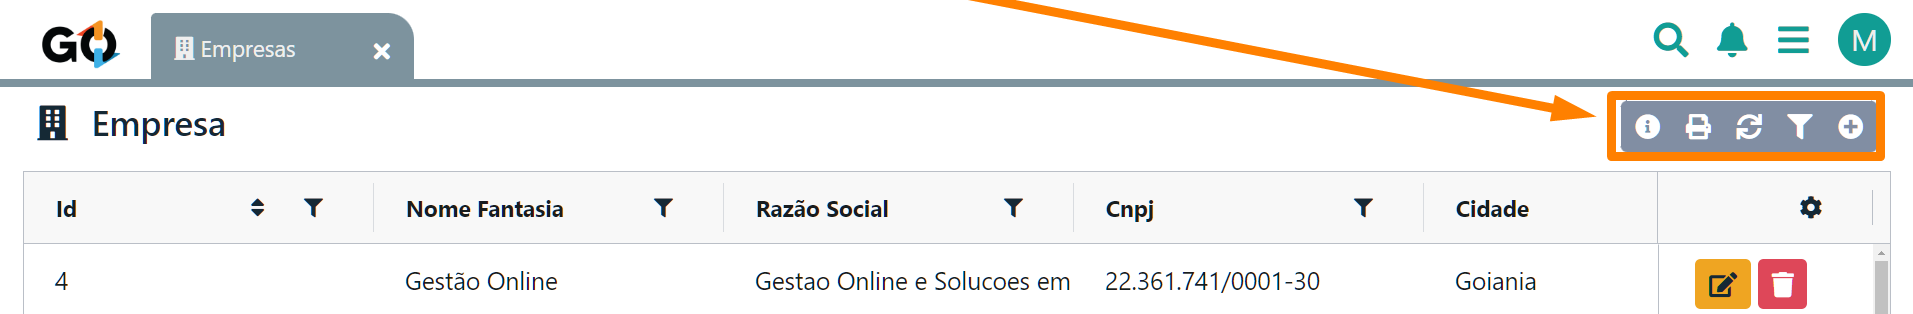
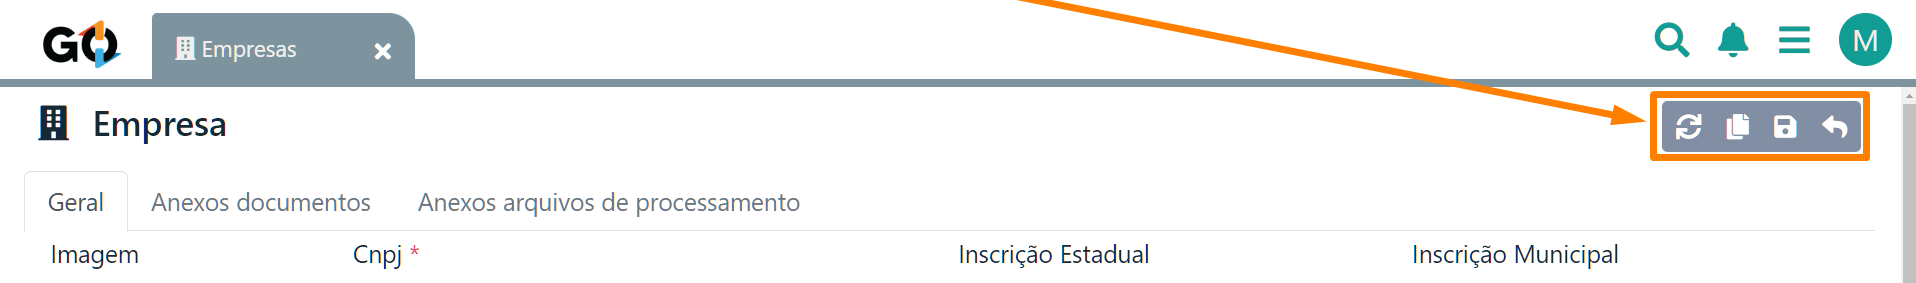
Add menu empresas

diff --git a/erp-v2/modulos/parametrizacoes/empresas.md b/erp-v2/modulos/parametrizacoes/empresas.md
@@ -144,3 +144,66 @@ Ao lado direito da tela, você pode ver um pequeno menu na cor cinza. Vejamos ab
 ![](/erp-v2/assets/modulos/parametrizacao/aba_empresas_add_menu.png)
 
 <br>
+
+No momento do cadastro de uma nova empresa, você precisará preencher alguns campos obrigatórios que tem o asterisco vermelho. 
+
+Sendo eles CNPJ, nome fantasia e razão social, estes itens são o mínimo necessário para poder salvar uma nova empresa.
+
+{% hint style="info" %}
+**Informativo:** Mas é sempre importante lembrar de fazer o preenchimento completo dos dados de cada emrpesa 😉👍
+{% endhint %}
+
+![](/erp-v2/assets/modulos/parametrizacao/aba_empresas_add_empresa.png)
+
+<br>
+
+Você pode adicionar uma imagem para empresa, facilitando assim a identificação da mesma em buscas e relatórios. Confira abaixo como adicionar:
+
+{% hint style="warning" %}
+**Importante:** A foto de perfil precisa ter um dos seguintes formatos, PNG, JPEG ou SVG. O tamanho também tem um limite que é de apenas 5MB! 🖼
+{% endhint %}
+
+![](/erp-v2/assets/modulos/parametrizacao/aba_empresas_add_imagem.gif)
+
+<br>
+
+Outro item importante no momento de salvar uma nova empresa é o número de celular, pois ele pode ser utilizado para hyperlinks do whatsapp, telegram e outros mensageiros.
+
+Logo abaixo, você tem os dados de endereço da empresa, ele tem o sistema de autocompletar a partir do momento que preencher o CEP, depois é só preencher o número, caso tenha e o complemento do local se for necessário 😁
+
+![](/erp-v2/assets/modulos/parametrizacao/aba_empresas_add_endereco.gif)
+
+<br>
+
+Chegando ao final da página de cadastro da nova empresa, no deparamos com os dados fiscais, preencha eles em conformidade com a orientação do contador da empresa.
+
+![](/erp-v2/assets/modulos/parametrizacao/aba_empresas_add_fiscais.png)
+
+<br>
+
+Nos dados fiscais você também pode adicionar o certificado digital da empresa, permitindo assinar documentos com validade jurídica e fazer transações online com segurança.
+
+{% hint style="warning" %}
+**Importante:** Os certificados digitais são aceitos em **`.pfx`** ou **`.p12`**.
+{% endhint %}
+
+![](/erp-v2/assets/modulos/parametrizacao/aba_empresas_add_certificado.png)
+
+Após finalizar o preenchimento você clica em **`Salvar`** e o registro da nova empresa será salvo:
+
+![](/erp-v2/assets/modulos/parametrizacao/aba_empresas_add_salvar.gif)
+
+<br>
+
+Duas novas guias ficam disponíveis a partir do momento que você salva uma nova empresa, são elas:
+
+- Anexos documentos, nesta primeira guia você pode inserir uma descrição, fazer uploado arquivo em definir o tipo dele com as opções disponíveis abaixo:
+    - Cópia do cartão do CNPJ ou cópia do contrato social da empresa;
+    - Documento de identidade com foto (RG e CPF ou CNH) do proprietário/sócios;
+    - Comprovante de residência em seu nome (ou familiares) do proprietário/sócios;
+    - Comprovante da atividade exercida (cartão de visita, link de site, nota fiscal de compra de produtos ou prestação de serviços, etc);
+    - Comprovante da atividade exercida (cartão de visita, link de site, nota fiscal de compra de produtos ou prestação de serviços, etc);
+    - Outros Documentos;
+    - Outros arquivos de processamento.
+
+- Anexos arquivos de processamento, vão aparecer todos os arquivos utilizados em transações realizadas por esta empresa no plataforma da Gestão.Online.

diff --git a/erp-v2/modulos/produtos_servicos/produtos.md b/erp-v2/modulos/produtos_servicos/produtos.md
@@ -194,10 +194,13 @@ Olhando para a guia **`Geral`**, por padrão, quando você for criar um novo pro
 
 <br>
 
+{% hint style="warning" %}
+**Importante:** A foto do produto precisa ter um dos seguintes formatos, PNG, JPEG ou SVG. O tamanho também tem um limite que é de apenas 5MB! 🖼
+{% endhint %}
+
 ![](/erp-v2/assets/modulos/produtos/aba_produtos_add_produto_itens.png)
 
 <br>
-
 
 Após finalizar o preenchimento você clica em **`Salvar`** e o registro do novo produto será salvo:
 
